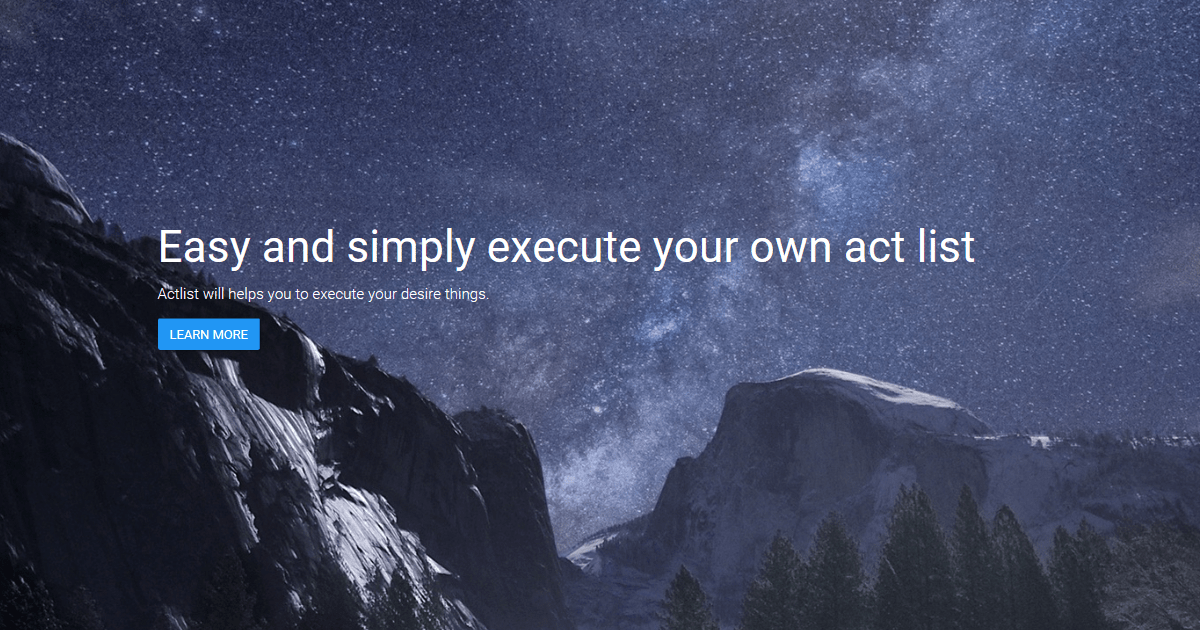
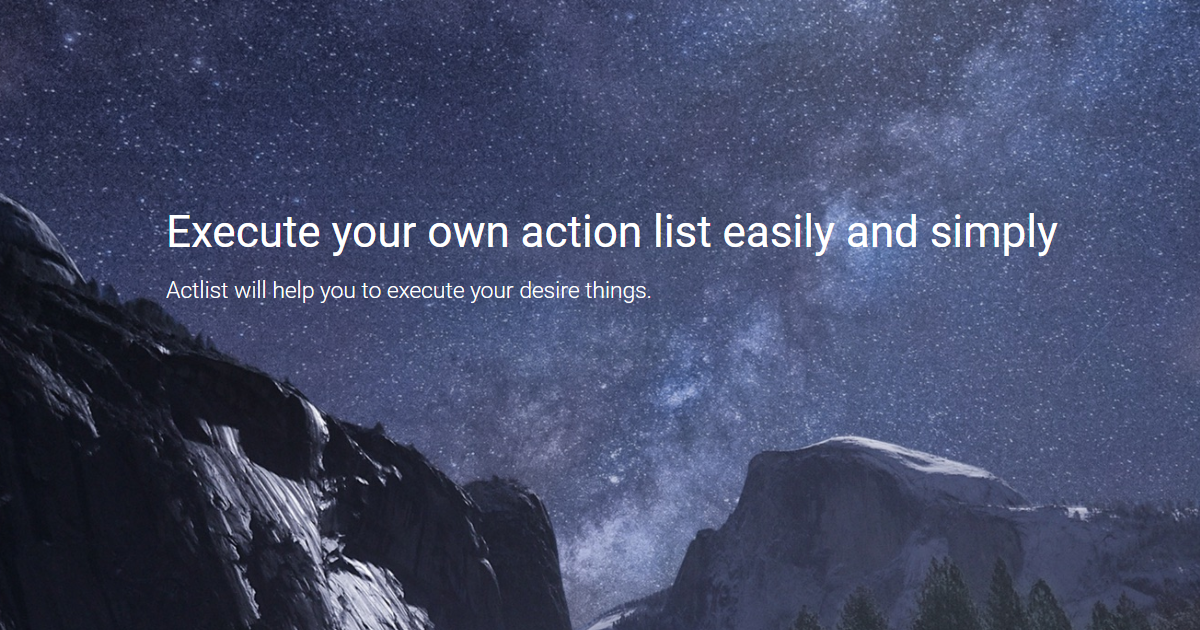
Update slug

diff --git a/index.html b/index.html
@@ -4,8 +4,8 @@ layout: default
 
 <div class="header-container jumbotron">
     <div class="container">
-        <h1>Easy and simply execute your own act list</h1>
-        <p>Actlist will helps you to execute your desire things.</p>
+        <h1>Execute your own action list easily and simply</h1>
+        <p>Actlist will help you to execute your desire things.</p>
         <p><a class="btn btn-primary btn-lg" href="{{ '/quick-start/' | prepend: site.docs_url }}" role="button">Learn more</a></p>
     </div>
 </div>
@@ -14,7 +14,7 @@ layout: default
         <div class="col-md-6">
             <h2 class="header-light regular-pad">What is Actlist?</h2>
             <blockquote>
-                Actlist is an utility platform to helps you to execute your desire things.</p>
+                Actlist is a utility platform that helps you to execute your desire things.</p>
 
                 You can create your own program without thinking about update check, message box, tray notification, about dialog, notice the change log, etc.
                 Just do focus only on coding about the core logic of your beautiful and greatest idea. forget about the other things ! Actlist will supports.</p>
